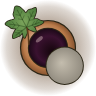
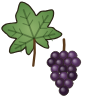
The vine's doorway is a leaf and a cluster in the valley, no glint; its simulator test photographs the opening and a touch [build-only]
A principle from the owner: from far away an experience's first sign should read as ordinary life that
is slightly off, not as an attraction. The vine's doorway is now a vine leaf with a cluster lying on the
Georgian valley where the oldest wine was made, breathing, from zoom 1.2; the glint from afar is gone.
GlobePackTests waits through the opening (the dive to the qvevri, the first shoots), moves the years to
today, touches the vine where the pull-back leaves the camera and photographs each, so CI's playground
check shows the vine on the real globe.

Claude-Session: https://claude.ai/code/session_01BAtsk7yLy6VeDviLax4ksZ

diff --git a/App/TerraIncognitaUITests/GlobePackTests.swift b/App/TerraIncognitaUITests/GlobePackTests.swift
@@ -33,8 +33,9 @@ final class GlobePackTests: XCTestCase {
         assertLive(Self.plainGlobeLive, in: app, "Ending the voyage leaves only the plain globe")
     }
 
-    /// The vine: eight thousand years at the foot, from 6000 BCE; the years moved near the strip's end,
-    /// where the vine has reached the whole world; then the plain globe.
+    /// The vine (runtime 6, dated geography): it opens close on the qvevri and the first shoots grow as the
+    /// years play; the years moved near the strip's end, where the vine has reached the whole world; a touch
+    /// on the vine lights the way back and names the place at the foot; then the plain globe.
     @MainActor func testTheVineGrowsWithTheYears() {
         let app = XCUIApplication()
         app.launchArguments = ["-playground-reset"]
@@ -44,14 +45,26 @@ final class GlobePackTests: XCTestCase {
         let date = app.descendants(matching: .any)["globeDate"].firstMatch
         XCTAssertTrue(date.waitForExistence(timeout: 30), "The globe shows the vine's year")
         XCTAssertTrue(app.staticTexts["activePrototype"].firstMatch.label.contains("vine"), "The vine is in front")
+        // the opening: a beat on the qvevri, then the first shoots and the slow pull-back
+        Thread.sleep(forTimeInterval: 9)
+        attach("55-vine-opens", in: app)
         let play = app.buttons["globeDatePlay"].firstMatch
         if play.exists && play.label == "Pause" { play.tap() }
-        attach("55-vine-begins", in: app)
         date.coordinate(withNormalizedOffset: CGVector(dx: 0.97, dy: 0.5)).tap()
         let late = XCTNSPredicateExpectation(predicate: NSPredicate(format: "NOT (value CONTAINS %@)", "BCE"), object: date)
         XCTAssertEqual(XCTWaiter().wait(for: [late], timeout: 10), .completed, "Near the strip's end the year is in our era")
-        Thread.sleep(forTimeInterval: 1.5)
+        Thread.sleep(forTimeInterval: 2)
         attach("56-vine-today", in: app)
+        // a touch on the vine where the pull-back left the camera (eastern Anatolia, on the way to Troy):
+        // the way back to the qvevri lights and the foot names the place
+        let globe = app.descendants(matching: .any)["mainAtlasGlobe"].firstMatch
+        let foot = app.descendants(matching: .any)["globeFootCaption"].firstMatch
+        let before = foot.exists ? foot.label : ""
+        globe.coordinate(withNormalizedOffset: CGVector(dx: 0.5, dy: 0.5)).tap()
+        let named = XCTNSPredicateExpectation(predicate: NSPredicate(format: "label != %@", before), object: foot)
+        _ = XCTWaiter().wait(for: [named], timeout: 4)
+        Thread.sleep(forTimeInterval: 1.2)
+        attach("57-vine-touched", in: app)
         endPrototype(in: app)
         openWorkbench(in: app)
         assertLive(Self.plainGlobeLive, in: app, "Ending the vine leaves only the plain globe")

diff --git a/tools/vine/art.js b/tools/vine/art.js
@@ -157,8 +157,13 @@
     }
   }
 
-  /** The doorway: the qvevri's mouth in the ground with a first leaf at its rim, the whole idea in a thumb's width. */
-  function doorway(ctx, w, h) { qvevri(ctx, w, h, { leaf: true }); }
+  /** The doorway: ordinary vine life, slightly off. A vine leaf with a cluster under it lying on a Georgian
+      valley, the size of a village: nothing says "touch here"; whoever is paying attention sees a leaf
+      where no leaf should be seen from so high, and touches it. */
+  function doorway(ctx, w, h) {
+    ctx.save(); ctx.translate(-w * 0.04, -h * 0.06); leaf(ctx, w * 0.8, h * 0.8, GREENS[1], -0.35, 7); ctx.restore();
+    ctx.save(); ctx.translate(w * 0.5, h * 0.4); grapes(ctx, w * 0.42, h * 0.6, GRAPE_RIPE, 8); ctx.restore();
+  }
 
   /** The spark that runs along the vine to the place touched: a white core in a warm glow. */
   function spark(ctx, w, h) {
@@ -176,7 +181,7 @@
   P.push({ name: 'grapes-green', width: 20, height: 30, draw(ctx, w, h) { grapes(ctx, w, h, GRAPE_GREEN, 32); } });
   P.push({ name: 'tendril', width: 34, height: 30, frames: 8, draw(ctx, w, h, i, n) { tendril(ctx, w, h, i / n); } });
   P.push({ name: 'qvevri', width: 64, height: 64, draw(ctx, w, h) { qvevri(ctx, w, h); } });
-  P.push({ name: 'doorway', width: 32, height: 32, draw: doorway });
+  P.push({ name: 'doorway', width: 30, height: 32, draw: doorway });
   P.push({ name: 'spark', width: 24, height: 24, draw: spark });
   window.SHEET = { pictures: P };
 })();
